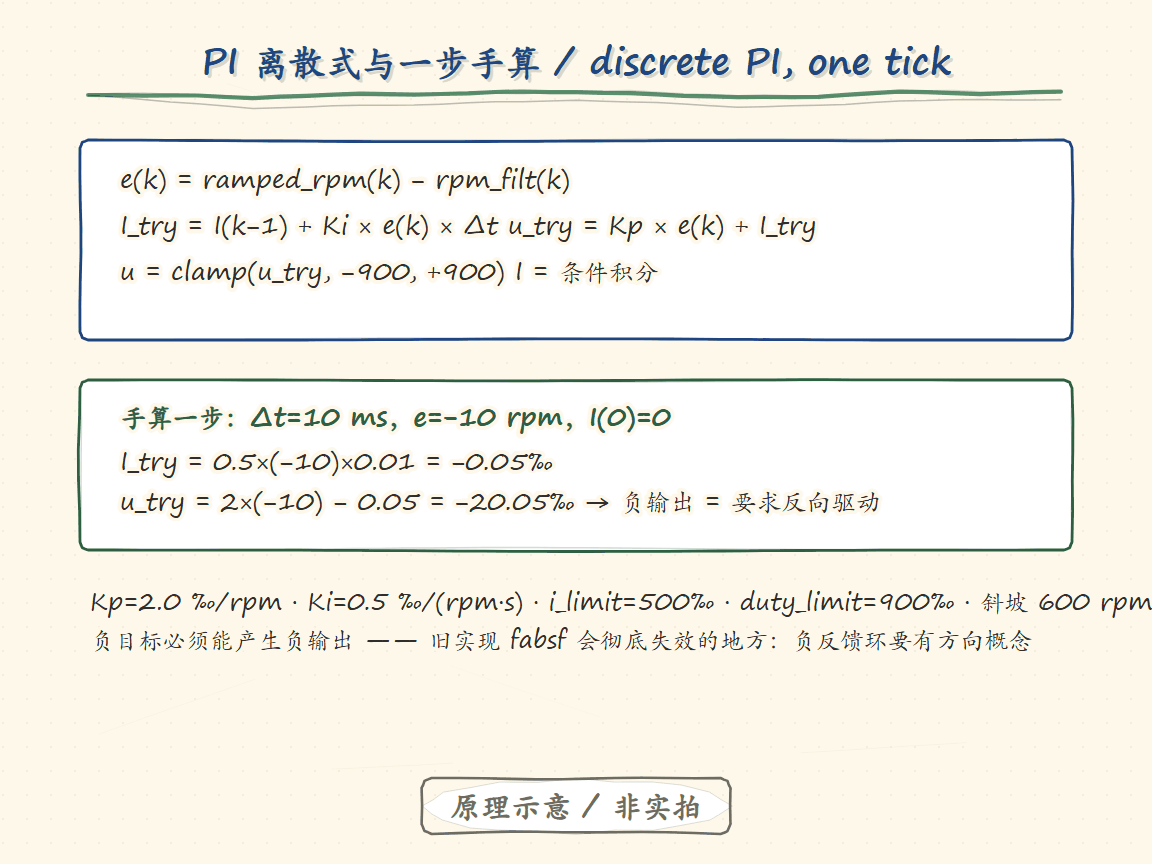
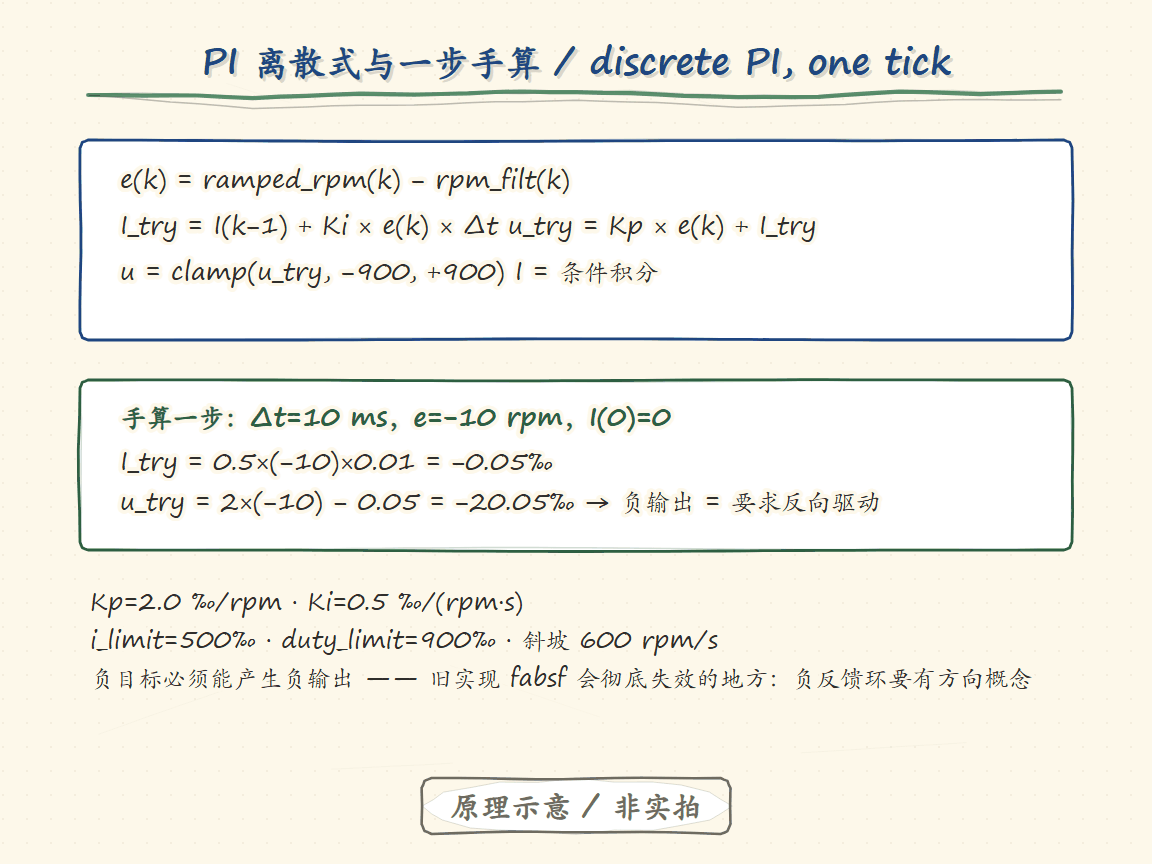
fix(figs): keep ch32 PI parameters on canvas (#171)

Changed region(s): [[0.0625, 0.6875, 1.0, 0.8125]]

diff --git a/book/tests/test_handraw_layout.py b/book/tests/test_handraw_layout.py
@@ -1,0 +1,30 @@
+"""Regression checks for technical figure text staying on-canvas."""
+import sys
+import unittest
+import xml.etree.ElementTree as ET
+from pathlib import Path
+
+ROOT = Path(__file__).resolve().parents[2]
+TRACK = ROOT / "tools" / "handraw_track"
+sys.path.insert(0, str(TRACK))
+
+import fig_ch32  # noqa: E402
+from hd import W, text_w  # noqa: E402
+
+
+class HandrawLayoutTests(unittest.TestCase):
+    def test_ch32_pi_step_text_fits_canvas_width(self):
+        root = ET.fromstring(fig_ch32.pi_step().svg())
+        anchor_offsets = {"start": 0, "middle": 0.5, "end": 1}
+        for node in root.iter("{http://www.w3.org/2000/svg}text"):
+            text = "".join(node.itertext())
+            x = float(node.attrib["x"])
+            width = text_w(text, float(node.attrib["font-size"]))
+            left = x - width * anchor_offsets[node.get("text-anchor", "start")]
+            with self.subTest(text=text):
+                self.assertGreaterEqual(left, 0)
+                self.assertLessEqual(left + width, W)
+
+
+if __name__ == "__main__":
+    unittest.main()

diff --git a/tools/handraw_track/fig_ch32.py b/tools/handraw_track/fig_ch32.py
@@ -21,7 +21,8 @@ def pi_step():
         "u_try = 2×(−10) − 0.05 = −20.05‰ → 负输出 = 要求反向驱动",
     ], size=25, color=INK, lh=40)
     f.multi(90, 610, [
-        "Kp=2.0 ‰/rpm · Ki=0.5 ‰/(rpm·s) · i_limit=500‰ · duty_limit=900‰ · 斜坡 600 rpm/s",
+        "Kp=2.0 ‰/rpm · Ki=0.5 ‰/(rpm·s)",
+        "i_limit=500‰ · duty_limit=900‰ · 斜坡 600 rpm/s",
         "负目标必须能产生负输出 —— 旧实现 fabsf 会彻底失效的地方：负反馈环要有方向概念",
     ], size=24, color=INK, lh=38)
     return f
